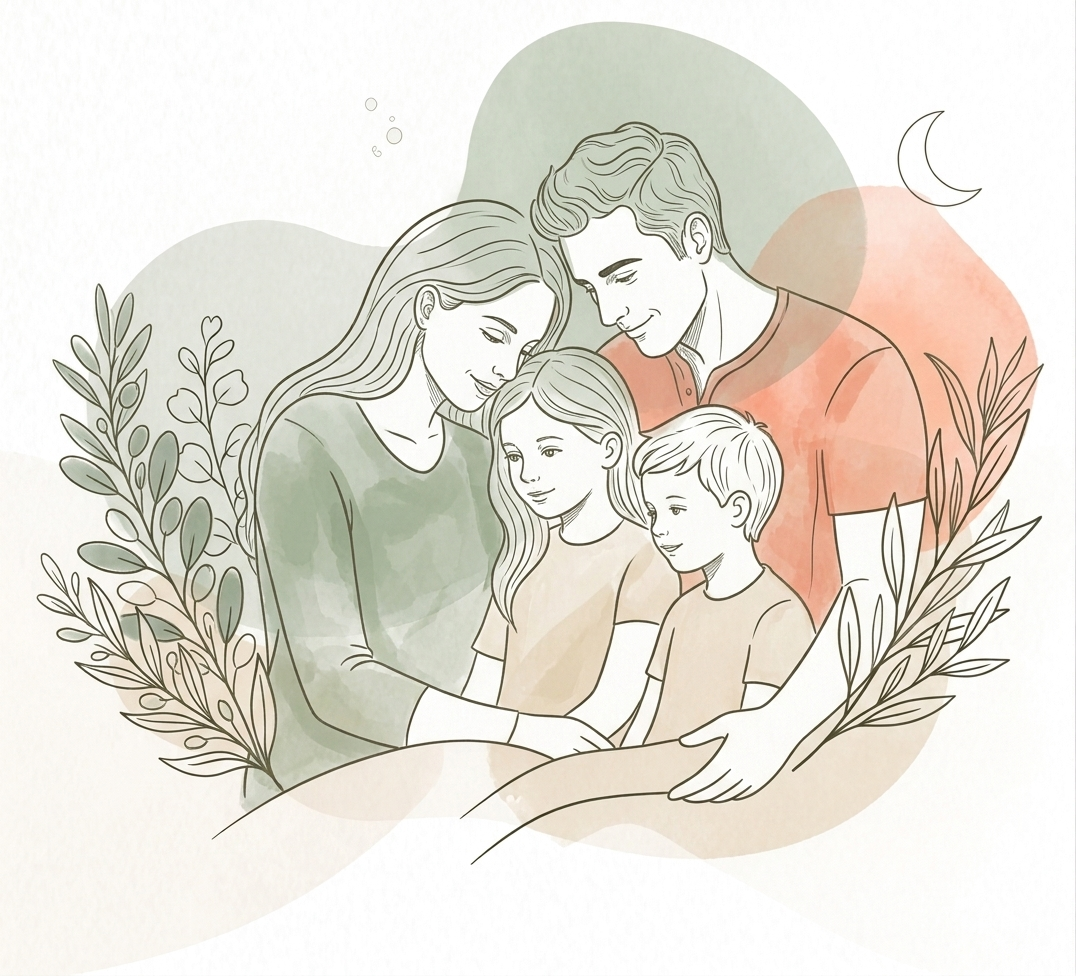
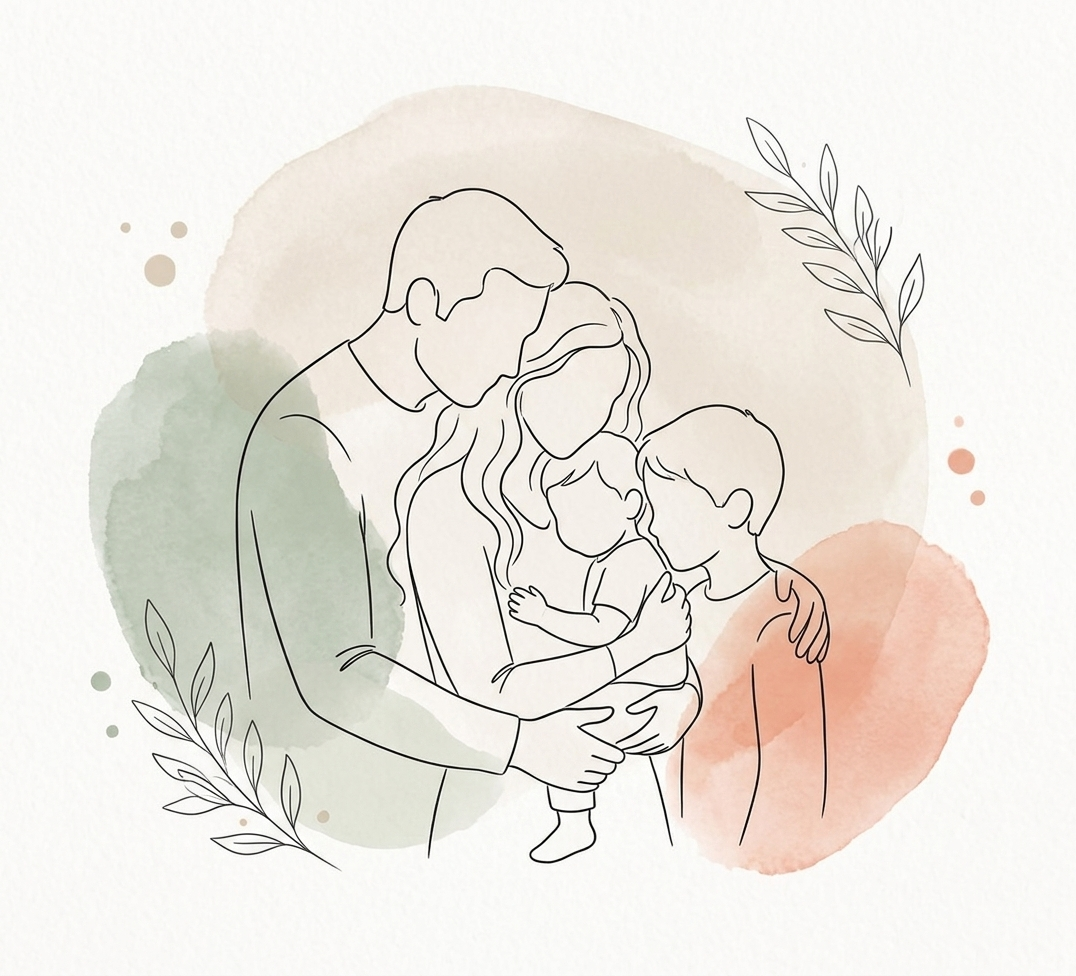
Update homepage hero illustration
Swaps in the user's newer AI-generated family illustration (same
file path, public/hero-family.jpeg) and updates the Image width/
height to match its actual dimensions.

diff --git a/app/page.tsx b/app/page.tsx
@@ -61,8 +61,8 @@ export default function Home() {
           <Image
             src="/hero-family.jpeg"
             alt="Illustration of a family of four embracing"
-            width={1080}
-            height={960}
+            width={1076}
+            height={976}
             priority
             className="mx-auto w-full max-w-md"
           />
